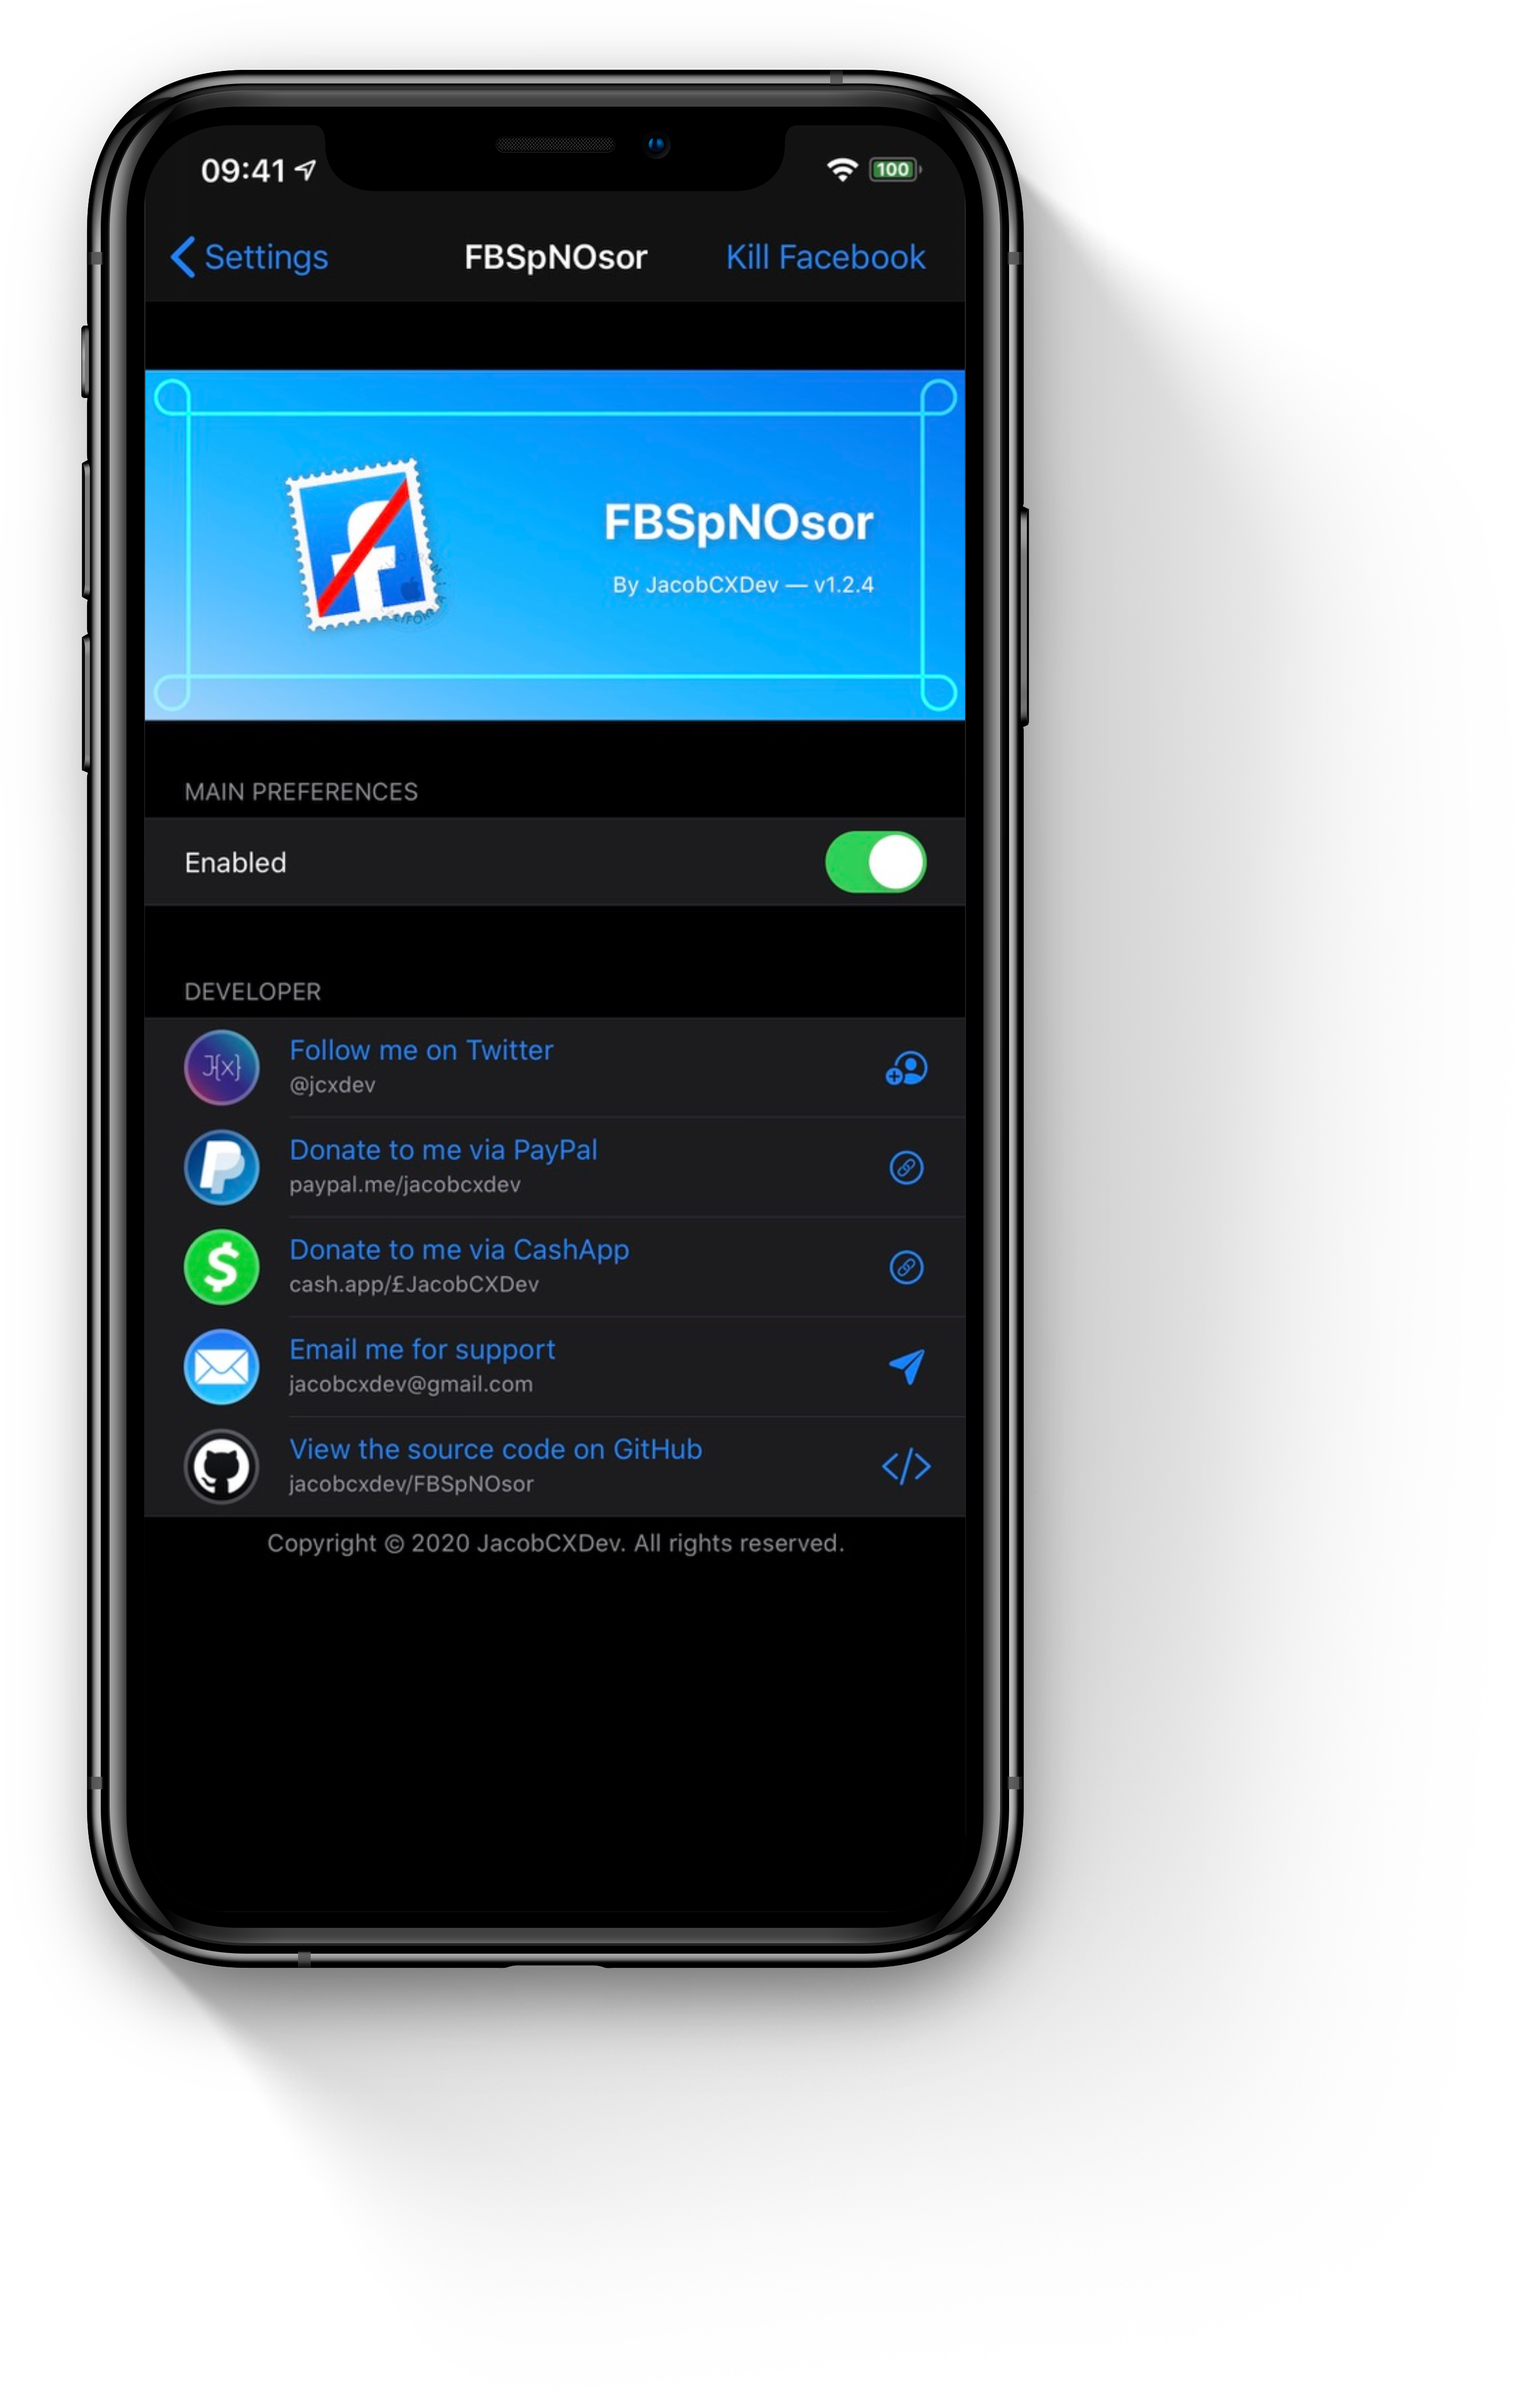
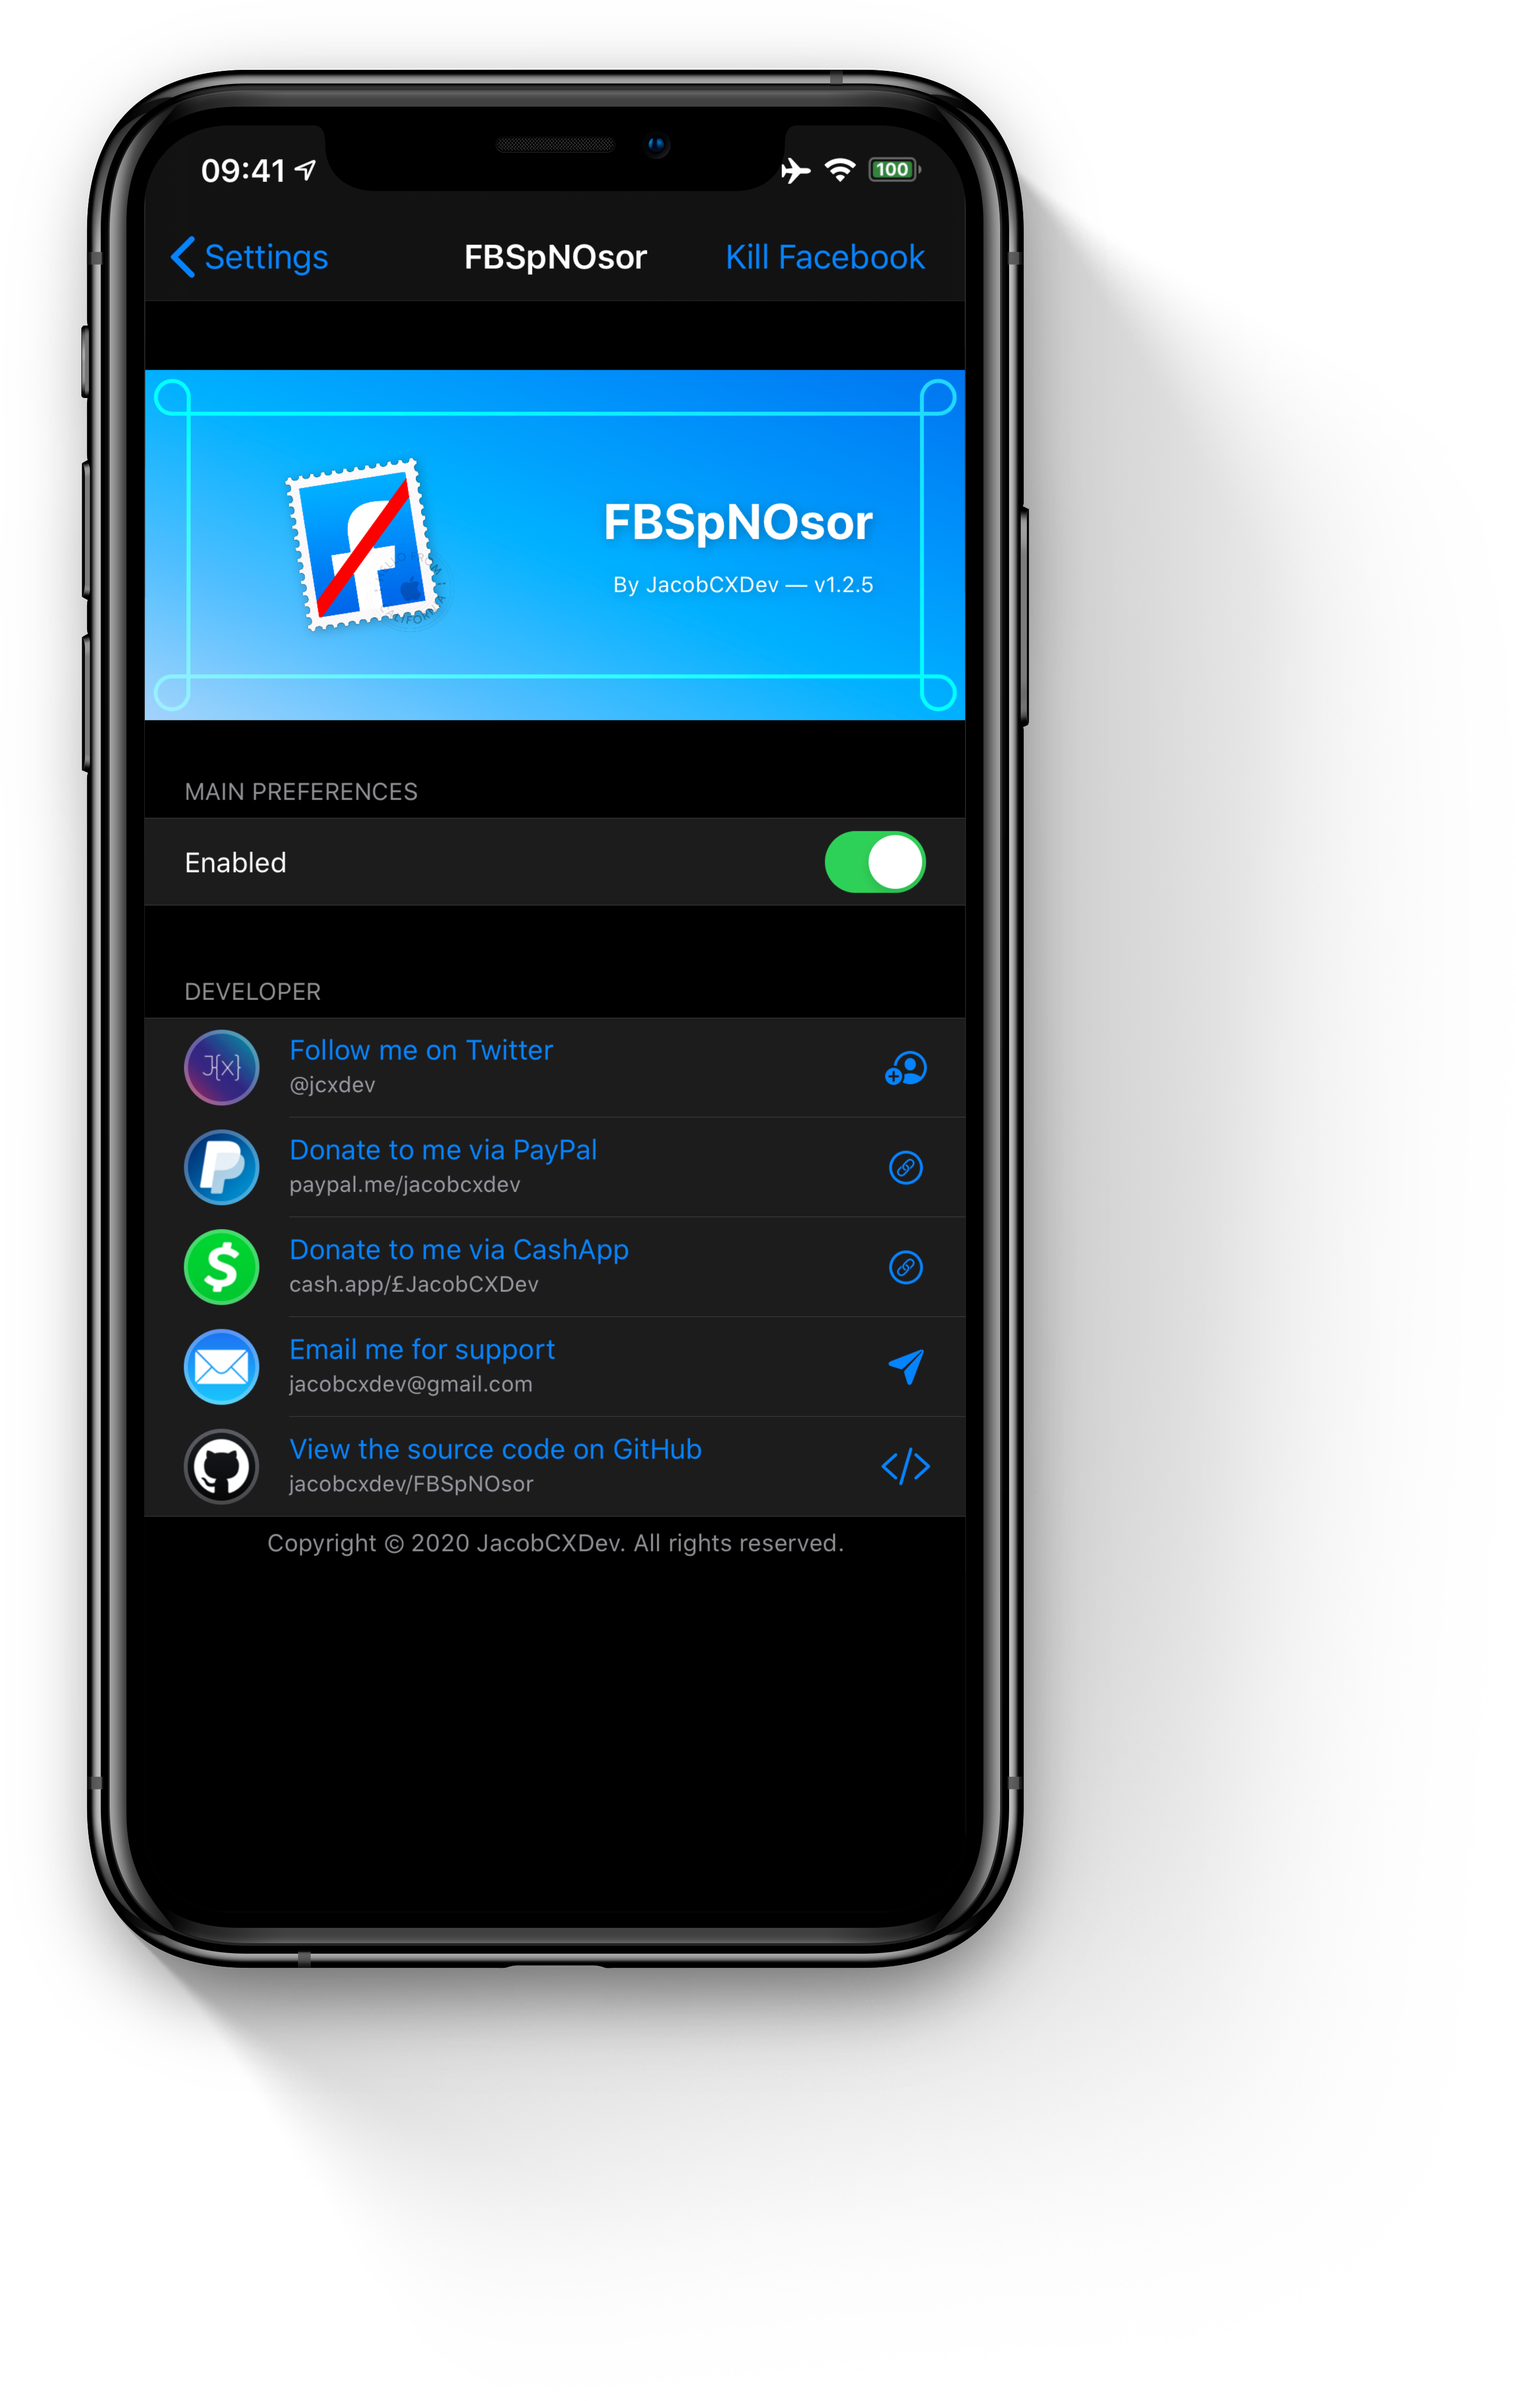
Update screenshot + README.md

diff --git a/README.md b/README.md
@@ -13,4 +13,4 @@ A tweak for Facebook — written in Objective-C + Logos.
 
 ## Screenshots
 
-![Preferences](https://user-images.githubusercontent.com/27970288/78467318-5bfaed00-7703-11ea-8f0e-ce52c73640a7.png)
+![Preferences](https://user-images.githubusercontent.com/27970288/78624971-cbe3b180-7882-11ea-9b39-9ed710761b01.png)
